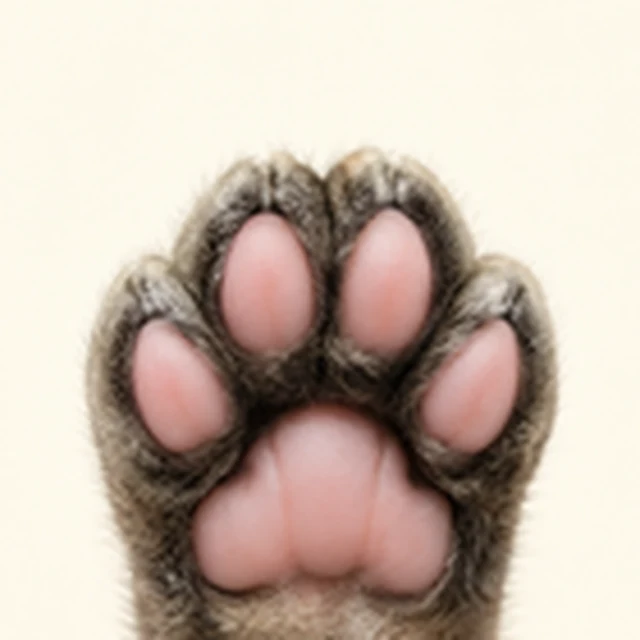
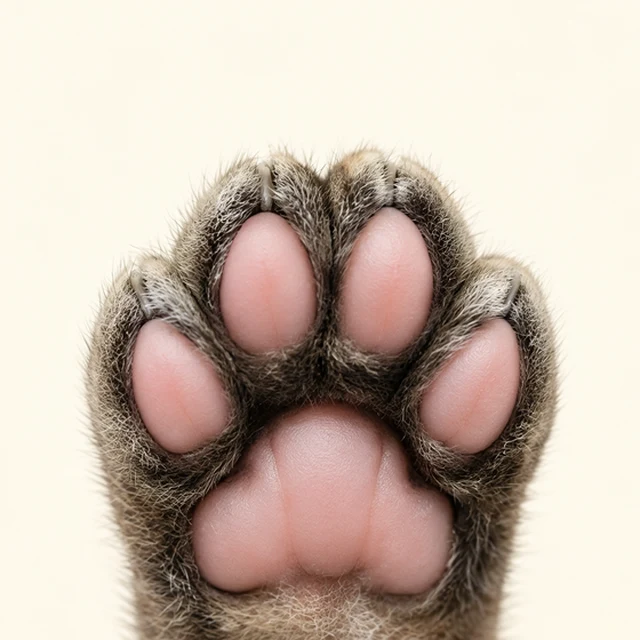
chore: 剪指甲底圖換成原圖 (#354)
Tina 提供 Canva 原圖（800px），照同樣比例裁切覆蓋，座標不變。

Initiated-by: Tina <somebabyTina>
Agent: Claude Code (claude-fable-5-2)
Claude-Session: https://claude.ai/code/session_01WtNTJjbiYZThNjXJKWTmAJ

diff --git a/docs/agents/HANDOFF.md b/docs/agents/HANDOFF.md
@@ -4,7 +4,7 @@
 > 最後更新：2026-11-13｜Tina × Claude Code（虛擬飼養剪指甲照片特寫，#354）
 
 ## 目前狀態
-- **虛擬飼養剪指甲改照片特寫（#354 第 2 份，Tina × Claude Code，分支 `feat/354-care-nail`，審查中）**：彈窗 `src/components/play/mini3d/NailGame2D.tsx`（底圖是 AI 合成的小貓腳掌照片 `public/play/nail/paw-tabby.webp`，指甲與指甲刀疊在上面；雙手：按住肉球＋拖指甲刀放開剪），規則 `src/lib/play/mini3d/nail-rules.ts`、對位座標 `nail-paw.ts`。**底圖是放大的暫用版，等 Tina 提供 Canva 原圖覆蓋。**只在無頭 Chrome 用暫時頁面玩過（滑鼠、空白鍵、兩指觸控），**還沒走真實 `/cats/[id]/play`、沒測實體手機**。第 2 份還剩外出籠小遊戲、貓抓板、穿模修正，各自另開 PR。細節見 `docs/modules/readiness.md`「B. 小遊戲改 3D」與 `docs/daily/2026-11-13/1217-Tina-354.md`。
+- **虛擬飼養剪指甲改照片特寫（#354 第 2 份，Tina × Claude Code，分支 `feat/354-care-nail`，審查中）**：彈窗 `src/components/play/mini3d/NailGame2D.tsx`（底圖是 AI 合成的小貓腳掌照片 `public/play/nail/paw-tabby.webp`，指甲與指甲刀疊在上面；雙手：按住肉球＋拖指甲刀放開剪），規則 `src/lib/play/mini3d/nail-rules.ts`、對位座標 `nail-paw.ts`。只在無頭 Chrome 用暫時頁面玩過（滑鼠、空白鍵、兩指觸控），**還沒走真實 `/cats/[id]/play`、沒測實體手機**。第 2 份還剩外出籠小遊戲、貓抓板、穿模修正，各自另開 PR。細節見 `docs/modules/readiness.md`「B. 小遊戲改 3D」與 `docs/daily/2026-11-13/1217-Tina-354.md`。
 - **虛擬飼養鏟屎改 3D（#354，珮瑜 × Claude Code，分支 `feat/354-care-scoop-3d`，審查中）**：餵貓（PR #392）已合併，這個 PR 只有鏟屎。鏟屎彈窗 `src/components/play/mini3d/ScoopGame3D.tsx`：按住畫面拖曳貓砂鏟、連砂鏟起、左右甩三下、到垃圾袋上方放開；規則 `src/lib/play/mini3d/scoop-rules.ts`。**貓砂盆四款只畫在彈窗裡（`ScoopProps.tsx`），遊戲一律用開放式，房間裡的貓砂盆沒換**。第 1 份還剩貓砂盆四款放進房間、逗貓玩具確認、上方狀態列。細節見 `docs/modules/readiness.md`「B. 小遊戲改 3D」與 `docs/daily/2026-11-12/2130-珮瑜-354.md`。
 - **#356 摸貓**：保留成貓 GLB 原材質與各節尾骨的碰撞代理。第二階段混合 `idle`、`cuddle`、`walk`，以 `head0` 疊加抗拒轉頭。下一步用合法帳號驗 Preview 照護入帳及手機實機。
 - **#356 掙扎轉頭**：Lv.0–4 每場首次有效接觸觸發一次可略過的衛教示範，固定使用內建 MP4。示範期間暫停練習；定時掙扎仍按原規則判定並尊重減少動態偏好。開發環境可在刷牙彈窗圖片載入後執行 `window.dispatchEvent(new Event("meow:brush-struggle"))`。本機 Chrome 1280px 與 375px 各五階段影片均播完，Lv.3–4 可用鍵鼠或雙指刷牙。Preview 的正式入口需要合法 Google 登入，待驗照護入帳、第 30 天與實體手機。

diff --git a/docs/modules/readiness.md b/docs/modules/readiness.md
@@ -176,7 +176,7 @@
   - 玩法：一根手指按住趾肉球，那一根的指甲才伸出來（放開就縮回）；另一根手指拖指甲刀，放開＝剪。剪在白色尖端算剛好，太淺只算一半，剪到粉紅色血線會流血（血滴、畫面泛紅、尖叫與哈氣音效）。電腦：點一下肉球固定（再點一下放開）或按住空白鍵，滑鼠對準後按一下。
   - 規則：`lib/play/mini3d/nail-rules.ts`（`nailPress`、`nailClip`、`nailTick`、`nailResult`，有測試）；回傳 `{ score, bleed, bitten, ran }`。信任低、壓力高時不耐煩升得快（`nailDifficulty`），到 55 會抽腳，抽腳超過 3 次或不耐煩到 100 就咬人或跑掉。
   - 對位：`lib/play/mini3d/nail-paw.ts` 記四顆趾肉球、指甲根部與方向（viewBox 320×320）；**換照片要重量這張表**，同一張圖換解析度則照 `paw-tabby.license.txt` 的裁切比例就不用重量。
-  - 目前只有虎斑一張，所有貓共用（Tina 2026-11-13 決定）；底圖是 200px 預覽圖放大的暫用版，等 Tina 提供原圖。
+  - 目前只有虎斑一張，所有貓共用（Tina 2026-11-13 決定）。
   - 還沒做：真實 `/cats/[id]/play` 流程與實體手機實測；外出籠、貓抓板、穿模修正。細節見 `docs/daily/2026-11-13/1217-Tina-354.md`。
 
 ## 資料表（Supabase）

diff --git a/docs/daily/2026-11-13/1217-Tina-354.md b/docs/daily/2026-11-13/1217-Tina-354.md
@@ -30,3 +30,6 @@
 - 未完成／下一步：
   - **底圖是 200px 預覽圖放大的暫用版（會糊）**：AI 沙盒抓不到 Canva 原圖，要請 Tina 從 Canva 下載原圖（media id `MAHaxYsrX9c`），照 `.license.txt` 寫的比例裁切後覆蓋
   - 其他毛色（橘、黑、白、三花）各要一張照片並重量座標
+
+### 14:10｜Tina（發起）× Claude Code（同一工作階段，續）
+- Tina 提供了 Canva 原圖（800px），已照同樣比例裁切覆蓋 `public/play/nail/paw-tabby.webp`（640px），座標沒有動；把座標畫在原圖上核對過，四根指甲都對在照片裡真實指甲尖露出的位置。上面「底圖是暫用版」那一項已解決。
